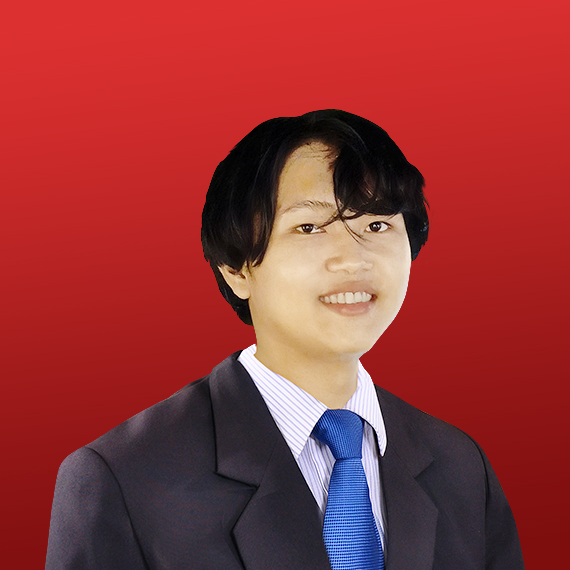
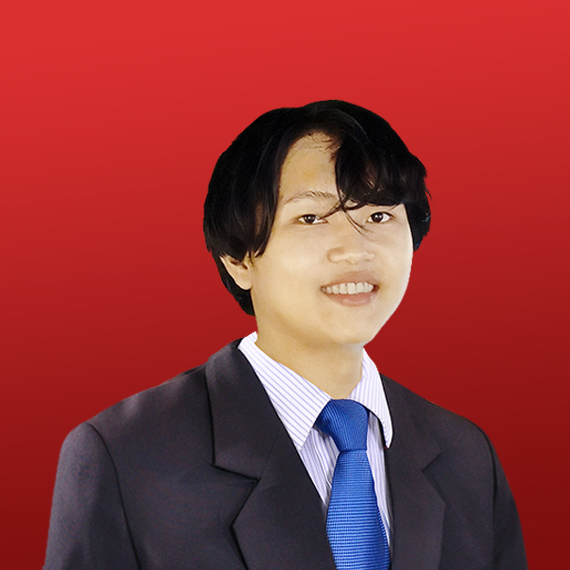
style: update about page

diff --git a/tentang.html b/tentang.html
@@ -135,19 +135,19 @@
                                         <div class="col-6 col-md-4">
                                             <div class="about__item">
                                                 <div class="about__item-image">
-                                                    <img src="#" />
+                                                    <img src="./img/about-2.jpg" />
                                                 </div>
                                                 <div class="about__item-content">
                                                     <span class="about__item-id">F429YB006</span>
                                                     <h6>Muhamad Zahran Yudha</h6>
-                                                    <p>Back-End Developer</p>
+                                                    <p>Front-end Web and Back-End Developer</p>
                                                 </div>
                                             </div>
                                         </div>
                                         <div class="col-6 col-md-4">
                                             <div class="about__item">
                                                 <div class="about__item-image">
-                                                    <img src="#" />
+                                                    <img src="./img/about-3.jpg" />
                                                 </div>
                                                 <div class="about__item-content">
                                                     <span class="about__item-id">F268YB295</span>
@@ -159,7 +159,7 @@
                                         <div class="col-6 col-md-4">
                                             <div class="about__item">
                                                 <div class="about__item-image">
-                                                    <img src="#" />
+                                                    <img src="./img/about-4.jpg" />
                                                 </div>
                                                 <div class="about__item-content">
                                                     <span class="about__item-id">F237YB298</span>
@@ -171,7 +171,7 @@
                                         <div class="col-6 col-md-4">
                                             <div class="about__item">
                                                 <div class="about__item-image">
-                                                    <img src="#" />
+                                                    <img src="./img/about-5.jpg" />
                                                 </div>
                                                 <div class="about__item-content">
                                                     <span class="about__item-id">S268YB451</span>
